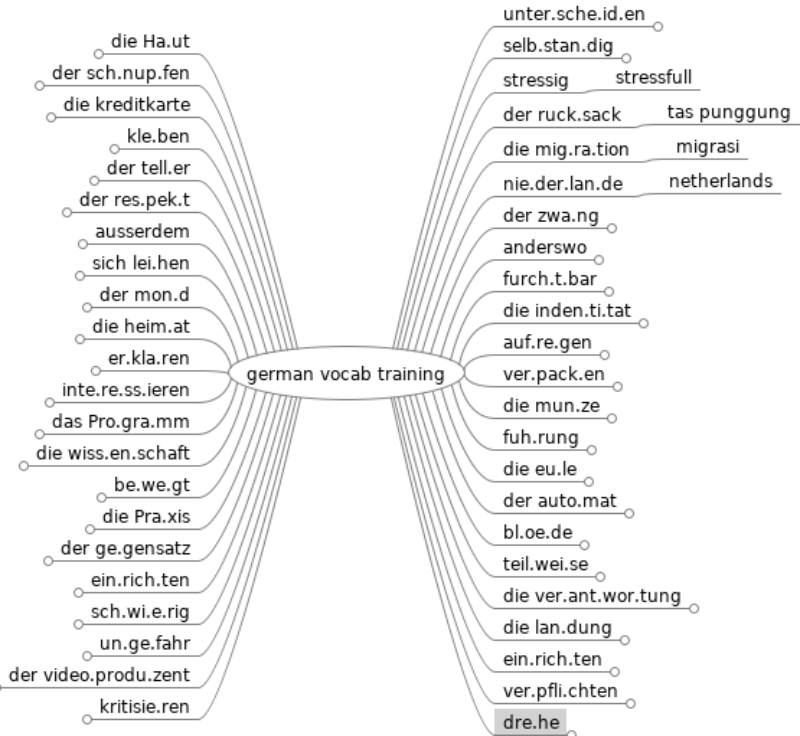
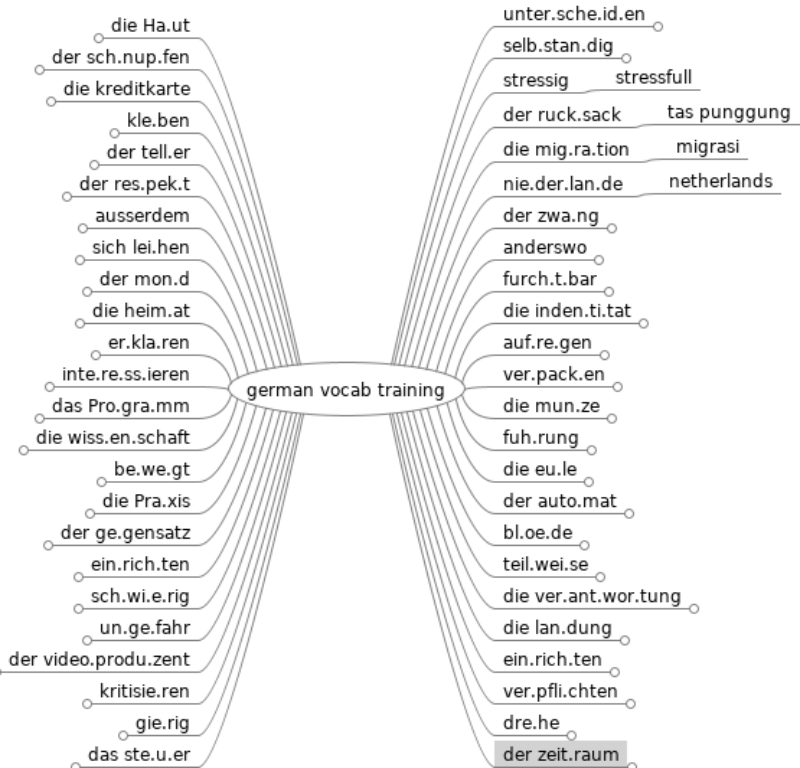
update lecture notes

Changed region(s): [[0.0, 0.0, 1.0, 1.0]]

diff --git a/competitive programming.mm b/competitive programming.mm
@@ -143,7 +143,7 @@
 </node>
 </node>
 <node CREATED="1646644221438" ID="ID_1215215340" MODIFIED="1646644224572" POSITION="left" TEXT="tree">
-<node CREATED="1646644224795" ID="ID_899174569" MODIFIED="1646644226181" TEXT="split">
+<node CREATED="1646644224795" FOLDED="true" ID="ID_899174569" MODIFIED="1647089023768" TEXT="split">
 <node CREATED="1646644226400" ID="ID_371103410" MODIFIED="1646644232924" TEXT="which path you want to split"/>
 <node CREATED="1646645006118" ID="ID_1423508396" MODIFIED="1646645010275" TEXT="subproblem first">
 <node CREATED="1646645010572" ID="ID_786115559" MODIFIED="1646645012000" TEXT="dfs"/>
@@ -155,6 +155,44 @@
 <node CREATED="1646655784577" ID="ID_506732220" MODIFIED="1646655790980" TEXT="either take it or leave it"/>
 </node>
 </node>
+</node>
+<node CREATED="1647089025762" FOLDED="true" ID="ID_816803408" MODIFIED="1647095219932" TEXT="serialize and deserialize">
+<node CREATED="1647090279748" ID="ID_1699086601" MODIFIED="1647090283137" TEXT="preorder"/>
+<node CREATED="1647090283763" ID="ID_1232445575" MODIFIED="1647090287535" TEXT="left and right"/>
+<node CREATED="1647090287824" ID="ID_1083818652" MODIFIED="1647090299973" TEXT="paling atas, i, ini kelas"/>
+</node>
+<node CREATED="1647095220686" FOLDED="true" ID="ID_1470677114" MODIFIED="1647168202746" TEXT="subtree of another tree">
+<node CREATED="1647134678179" ID="ID_1496240281" MODIFIED="1647134687145" TEXT="overal complexity = s* t"/>
+<node CREATED="1647134815200" ID="ID_1378877695" MODIFIED="1647134818190" TEXT="is sub tree"/>
+<node CREATED="1647134818921" ID="ID_24432572" MODIFIED="1647134823657" TEXT="is the same tree?"/>
+<node CREATED="1647149128959" ID="ID_1935452858" MODIFIED="1647149134856" TEXT="what happen when one is null?"/>
+<node CREATED="1647150520492" FOLDED="true" ID="ID_1974368893" MODIFIED="1647168200008" TEXT="in summary">
+<node CREATED="1647150527049" ID="ID_499637974" MODIFIED="1647150534101" TEXT="bikin is same tree first"/>
+<node CREATED="1647150535721" ID="ID_1325052299" MODIFIED="1647150545719" TEXT="terus bikin recurvise ke bawah terus2"/>
+</node>
+</node>
+<node CREATED="1647168203326" ID="ID_1890223860" MODIFIED="1647168206218" TEXT="generate tree">
+<node CREATED="1647168206485" ID="ID_1225510917" MODIFIED="1647168208916" TEXT="pre order">
+<node CREATED="1647168209172" ID="ID_746802513" MODIFIED="1647168213597" TEXT="root, kiri, kanan"/>
+</node>
+<node CREATED="1647168253092" ID="ID_114490386" MODIFIED="1647168255713" TEXT="in order">
+<node CREATED="1647168255924" ID="ID_1030893793" MODIFIED="1647168261701" TEXT="left dulu, root, kanan"/>
+</node>
+<node CREATED="1647168397721" ID="ID_1990222989" MODIFIED="1647168400522" TEXT="pre order">
+<node CREATED="1647168400746" ID="ID_1696650166" MODIFIED="1647168407709" TEXT="the first value, should be a root"/>
+</node>
+<node CREATED="1647168602457" ID="ID_1144186533" MODIFIED="1647168605177" TEXT="inorder">
+<node CREATED="1647168605401" ID="ID_604805389" MODIFIED="1647168611429" TEXT="left, gonna be left"/>
+<node CREATED="1647168611679" ID="ID_1649404171" MODIFIED="1647168616461" TEXT="rigt gonna be right"/>
+</node>
+<node CREATED="1647169516032" ID="ID_1464996781" MODIFIED="1647169521839" TEXT="cut the array">
+<node CREATED="1647169522034" ID="ID_1978115385" MODIFIED="1647169528035" TEXT="finding the mid"/>
+</node>
+<node CREATED="1647169988957" ID="ID_998630716" MODIFIED="1647169994952" TEXT="in order, buat buang mid"/>
+<node CREATED="1647170107084" ID="ID_1113780731" MODIFIED="1647170112408" TEXT="index(item)">
+<node CREATED="1647170112608" ID="ID_252728165" MODIFIED="1647170121325" TEXT="ini cari index , di list python"/>
+</node>
+<node CREATED="1647170239684" ID="ID_1935459915" MODIFIED="1647170246654" TEXT="what order the root, is traverse"/>
 </node>
 </node>
 <node CREATED="1646825743684" ID="ID_1980900154" MODIFIED="1646825748319" POSITION="right" TEXT="reverse bit">

diff --git a/go programming.mm b/go programming.mm
@@ -1,0 +1,24 @@
+<map version="1.1.0">
+<!-- To view this file, download free mind mapping software FreeMind from http://freemind.sourceforge.net -->
+<node CREATED="1647079850087" ID="ID_1163352724" MODIFIED="1647079855470" TEXT="go programming">
+<node CREATED="1647079996003" ID="ID_295632698" MODIFIED="1647079999983" POSITION="right" TEXT="basic">
+<node CREATED="1647080000340" ID="ID_1172583027" MODIFIED="1647080002046" TEXT="package"/>
+<node CREATED="1647080002281" ID="ID_1984595036" MODIFIED="1647080004825" TEXT="import"/>
+<node CREATED="1647080005093" ID="ID_864528604" MODIFIED="1647080006699" TEXT="const"/>
+<node CREATED="1647080006928" ID="ID_1322407658" MODIFIED="1647080010235" TEXT="init func"/>
+<node CREATED="1647080035763" ID="ID_490008623" MODIFIED="1647080039498" TEXT="main func">
+<node CREATED="1647080040027" ID="ID_248035409" MODIFIED="1647080044767" TEXT="entry function"/>
+<node CREATED="1647080045019" ID="ID_635761731" MODIFIED="1647080049744" TEXT="if it is executable"/>
+</node>
+</node>
+<node CREATED="1647080080310" ID="ID_1315494046" MODIFIED="1647080082569" POSITION="left" TEXT="apackage">
+<node CREATED="1647080082783" ID="ID_1903232000" MODIFIED="1647080090774" TEXT="package consist multiple file"/>
+</node>
+<node CREATED="1647080142277" ID="ID_17019164" MODIFIED="1647080146126" POSITION="right" TEXT="file type">
+<node CREATED="1647080146446" ID="ID_837845711" MODIFIED="1647080151924" TEXT="blbla2.go"/>
+<node CREATED="1647080155627" ID="ID_47390010" MODIFIED="1647080159392" TEXT="bla_test.go">
+<node CREATED="1647080159620" ID="ID_748445212" MODIFIED="1647080163605" TEXT="buat go test"/>
+</node>
+</node>
+</node>
+</map>

diff --git a/golang web.mm b/golang web.mm
@@ -128,7 +128,7 @@
 <node CREATED="1646270151199" ID="ID_1529168752" MODIFIED="1646270160594" TEXT="semua handler jadi method disini"/>
 </node>
 </node>
-<node CREATED="1647011625405" ID="ID_1535010937" MODIFIED="1647011627228" POSITION="right" TEXT="database">
+<node CREATED="1647011625405" FOLDED="true" ID="ID_1535010937" MODIFIED="1647139723613" POSITION="right" TEXT="database">
 <node CREATED="1647011627513" ID="ID_1920499525" MODIFIED="1647011631766" TEXT="need database driver">
 <node CREATED="1647011651716" ID="ID_789144503" MODIFIED="1647011658256" TEXT="@1 latest avaliable version"/>
 </node>
@@ -143,6 +143,11 @@
 </node>
 <node CREATED="1647011902328" ID="ID_1075493820" MODIFIED="1647011905567" TEXT="sql.Open">
 <node CREATED="1647011905758" ID="ID_779949672" MODIFIED="1647011910191" TEXT="balikin sql.DB"/>
+</node>
+</node>
+<node CREATED="1647139725442" ID="ID_902646384" MODIFIED="1647139727899" POSITION="left" TEXT="sql.open">
+<node CREATED="1647139728113" ID="ID_865964358" MODIFIED="1647139732377" TEXT="balikan sql.DB">
+<node CREATED="1647139732919" ID="ID_55479856" MODIFIED="1647139739415" TEXT="ini pool to any connection"/>
 </node>
 </node>
 </node>

diff --git a/german vocab training.mm b/german vocab training.mm
@@ -160,5 +160,16 @@
 <node CREATED="1647000150158" FOLDED="true" ID="ID_1225371301" MODIFIED="1647000157528" POSITION="right" TEXT="dre.he">
 <node CREATED="1647000153355" ID="ID_709998607" MODIFIED="1647000156197" TEXT="shooting"/>
 </node>
+<node CREATED="1647078686683" FOLDED="true" ID="ID_1251213966" MODIFIED="1647139357936" POSITION="left" TEXT="gie.rig">
+<node CREATED="1647078692934" ID="ID_1797446261" MODIFIED="1647078696163" TEXT="greedy"/>
+<node CREATED="1647078696424" ID="ID_516365937" MODIFIED="1647078699288" TEXT="culas"/>
+</node>
+<node CREATED="1647078716212" FOLDED="true" ID="ID_1045762005" MODIFIED="1647139361589" POSITION="right" TEXT="der zeit.raum">
+<node CREATED="1647078720759" ID="ID_256419801" MODIFIED="1647078724074" TEXT="time periode"/>
+<node CREATED="1647078724352" ID="ID_223039644" MODIFIED="1647078727869" TEXT="periode waktu"/>
+</node>
+<node CREATED="1647078750373" FOLDED="true" ID="ID_966219862" MODIFIED="1647139359920" POSITION="left" TEXT="das ste.u.er">
+<node CREATED="1647078755761" ID="ID_1740764776" MODIFIED="1647078758207" TEXT="setir"/>
+</node>
 </node>
 </map>

diff --git a/german vocab training 2.mm b/german vocab training 2.mm
@@ -1,0 +1,11 @@
+<map version="1.1.0">
+<!-- To view this file, download free mind mapping software FreeMind from http://freemind.sourceforge.net -->
+<node CREATED="1647139367409" ID="ID_142540211" MODIFIED="1647139374858" TEXT="german vocab training 2">
+<node CREATED="1647139375113" ID="ID_1580256343" MODIFIED="1647139376882" POSITION="right" TEXT="mogen">
+<node CREATED="1647139377091" ID="ID_687657902" MODIFIED="1647139379317" TEXT="pengen"/>
+</node>
+<node CREATED="1647139461600" ID="ID_988562006" MODIFIED="1647139464053" POSITION="left" TEXT="sondern">
+<node CREATED="1647139464292" ID="ID_837489219" MODIFIED="1647139465470" TEXT="tapi"/>
+</node>
+</node>
+</map>
